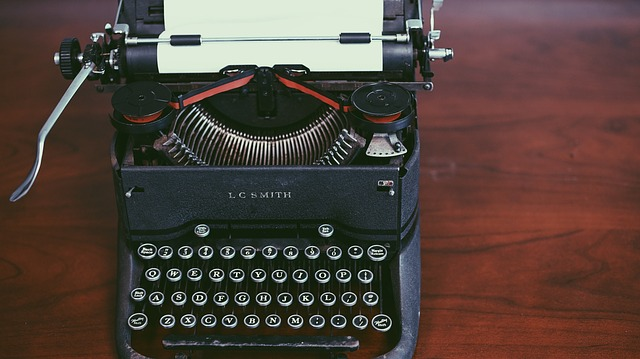
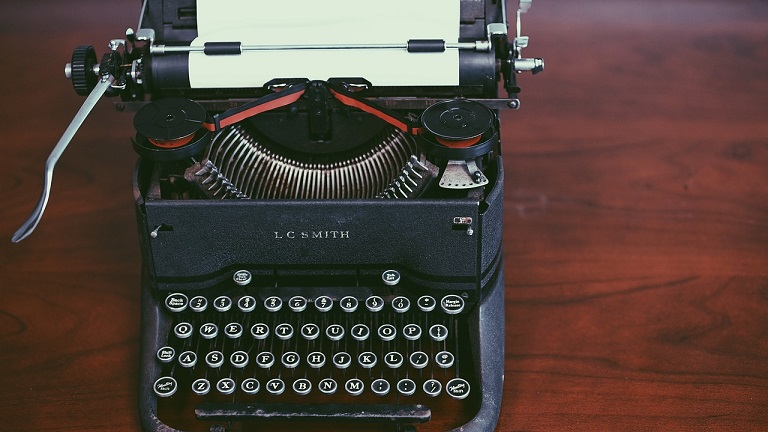
CS300 HW5

diff --git a/docs/Projects/WordProcessorFull.html b/docs/Projects/WordProcessorFull.html
@@ -1,7 +1,7 @@
 <!DOCTYPE html>
 <html>
   <head>
-    <title>Projects</title>
+    <title>WordProcessorFull</title>
     <meta charset="utf-8">
     <meta name="viewport" content="width=device-width, initial-scale=1.0">
 
@@ -907,66 +907,34 @@
   </head>
   <body class="markdown-preview-enhanced   ">
 
-  <h1 id="computer-science-homework-projects-at-psu">Computer Science Homework Projects at PSU</h1>
-<p>David Lu<br>
-4/27/17</p>
-<p><img src="code.jpg" alt="code"></p>
-<h2 id="examples">Examples</h2>
-<p>Here is a curated and lightly edited collection of programming projects that are assigned to computer science students at Portland State University.</p>
-<p>Many PSU CS courses typically post about 5 assignments through the 10 week term. So you can estimate when an assignment was posted by its number. For example a HW3, would likely have been posted about midway through the term.</p>
-<ul>
-<li><p><a href="https://www.pdx.edu/computer-science/cs161"><span style="color:Turquoise">CS161: Introduction to Programming and Problem Solving:</span></a>
-<ul>
-<li><p><a href="Projects.html">(Coming soon)</a></p></li>
-</ul></p></li>
-</ul>
-<ul>
-<li><p><a href="https://www.pdx.edu/computer-science/cs162"><span style="color:Turquoise">CS162 Introduction to Computer Science:</span></a>
-<ul>
-<li><p><a href="Projects/Cipher.html">HW2: Cipher</a></p></li>
-</ul></p></li>
-</ul>
-<ul>
-<li><p><a href="https://www.pdx.edu/computer-science/cs163"><span style="color:Turquoise">CS163 Data Structures:</span></a>
-<ul>
-<li><p><a href="Projects.html">(Coming soon)</a></p></li>
-</ul></p></li>
-</ul>
-<ul>
-<li><p><a href="https://www.pdx.edu/computer-science/cs201"><span style="color:Turquoise">CS201 Computer Systems Programming:</span></a>
-<ul>
-<li><p><a href="Projects/Typing_Speed_Game.html">HW1: Typing Speed Game</a></p></li>
-<li><p><a href="Projects/Decryption.html">HW3: Decryption</a></p></li>
-</ul></p></li>
-</ul>
-<ul>
-<li><p><a href="https://www.pdx.edu/computer-science/cs202"><span style="color:Turquoise">CS202 Programming Systems:</span></a>
-<ul>
-<li><p><a href="Projects.html">(Coming soon)</a></p></li>
-</ul></p></li>
-</ul>
-<ul>
-<li><p><a href="https://www.pdx.edu/computer-science/cs300"><span style="color:Turquoise">CS300 Elements of Software Engineering:</span></a>
-<ul>
-<li><p><a href="Projects/WordProcessor.html">HW1: Word Processor Specification</a></p></li>
-<li><p><a href="Projects/WordProcessorFull.html">HW5: Word Processor Complete Implementation</a></p></li>
-</ul></p></li>
-</ul>
-<ul>
-<li><p><a href="https://www.pdx.edu/computer-science/cs311"><span style="color:Turquoise">CS311 Computational Structures:</span></a>
-<ul>
-<li><p><a href="Projects/DFA_Analyzer.html">HW1: DFA Analyzer</a></p></li>
-<li><p><a href="Projects/Simple_Grammar_Analyzer.html">HW2: Simple Grammar Analyzer</a></p></li>
-</ul></p></li>
-</ul>
-<ul>
-<li><p><a href="https://www.pdx.edu/computer-science/cs333"><span style="color:Turquoise">CS333 Introduction to Operating Systems:</span></a>
-<ul>
-<li><p><a href="Projects.html">(Coming soon)</a></p></li>
-</ul>
-<hr>
-</p><p><sub> Assignments gathered here are curated and lightly edited from publically available PSU course webpages.</sub></p></li>
-</ul>
+  <h1 id="cs300-homework-5-word-processor">CS300: Homework 5 - Word Processor</h1>
+<p><img src="typewriter.jpg" alt="Typewriter"></p>
+<p>From Professor Herb Mayer’s CS300 course. <a href="http://web.cecs.pdx.edu/~herb/cs300s07/">External Link</a></p>
+<h2 id="word-processor-complete-implementation">Word Processor Complete Implementation</h2>
+<p>General Rules: Implement your Homework in C or C++, using any 32-bit or more powerful run-time system. Hand in the complete listing of all source files plus include files, if any, and all inputs with generated outputs. Write your group’s names, the HW number, completion date, and the current PSU term into the header of each source file. If you work in a group of 2 or more, keep in mind that fair work distribution is one important SW Engineering aspect. You need to practice fair work distribution, and group work. This aspect is important in your case, as all group members receive the identical credit for the delivered project.</p>
+<blockquote>
+<p>Abstract: Implement in C or C++ the Word Processor, specified in HW1. Show that all commands work by running the complete test suite specified in HW1. All previously functioning text processing commands must still work correctly.</p>
+</blockquote>
+<p>Detail: The word processor you implement is an old-fashioned, simple text processing tool that reads unformatted ASCII text input with embedded commands, and outputs formatted text. The output has all commands removed, and is formatted as specified by the commands or by defaults. Characters should be monospaced.</p>
+<p>Demonstrate via suitable input texts, that all text processing commands work. The <code>.ra</code> and <code>.co</code> commands had been implemented before and must still function properly. Hand in all inputs and their corresponding outputs, showing in each case that yet another formatting command works as specified.</p>
+<p>Following the emitted output, your word processor dumps additional internal information. This information is for tracking purposes for the implementation team, not meant for the benefit of the user of your word processor. This tracking information includes the following:</p>
+<table>
+<thead>
+<tr><th style="text-align:left">#</th><th style="text-align:left">Internal Data to be Tracked</th></tr>
+</thead>
+<tbody>
+<tr><td style="text-align:left">1</td><td style="text-align:left">Total number of input characters read</td></tr>
+<tr><td style="text-align:left">2</td><td style="text-align:left">Total number of input blanks read</td></tr>
+<tr><td style="text-align:left">3</td><td style="text-align:left">Total number of input cr/lf read</td></tr>
+<tr><td style="text-align:left">4</td><td style="text-align:left">Total number of input tabs read</td></tr>
+<tr><td style="text-align:left">5</td><td style="text-align:left">Total number of input lines read</td></tr>
+<tr><td style="text-align:left">6</td><td style="text-align:left">Total number of unprintable character read</td></tr>
+<tr><td style="text-align:left">7</td><td style="text-align:left">Total number of commands encountered</td></tr>
+<tr><td style="text-align:left">8</td><td style="text-align:left">Total number of distinct commands, i.e. the same command occurring more than once in the input is counted just one time</td></tr>
+<tr><td style="text-align:left">9</td><td style="text-align:left">Total number of words in the input; a word is a contiguous sequence of characters embedded in white space. White space includes blanks, new-lines, the start of file, and of file, and tabs. Also, any combination of these c outs as one white space</td></tr>
+<tr><td style="text-align:left">10</td><td style="text-align:left">Total number of white spaces output. White space is a combinations of blanks, tabs, and newlines, but at least one of those</td></tr>
+</tbody>
+</table>
 
 
   </body>

diff --git a/docs/Projects/WordProcessorFull.md b/docs/Projects/WordProcessorFull.md
@@ -1,0 +1,31 @@
+CS300: Homework 5 - Word Processor
+=============
+
+![Typewriter](typewriter.jpg)
+
+From Professor Herb Mayer's CS300 course. [External Link](http://web.cecs.pdx.edu/~herb/cs300s07/)
+
+Word Processor Complete Implementation
+------------
+General Rules: Implement your Homework in C or C++, using any 32-bit or more powerful run-time system. Hand in the complete listing of all source files plus include files, if any, and all inputs with generated outputs. Write your group’s names, the HW number, completion date, and the current PSU term into the header of each source file. If you work in a group of 2 or more, keep in mind that fair work distribution is one important SW Engineering aspect. You need to practice fair work distribution, and group work. This aspect is important in your case, as all group members receive the identical credit for the delivered project.
+
+>Abstract: Implement in C or C++ the Word Processor, specified in HW1. Show that all commands work by running the complete test suite specified in HW1. All previously functioning text processing commands must still work correctly.
+
+Detail: The word processor you implement is an old-fashioned, simple text processing tool that reads unformatted ASCII text input with embedded commands, and outputs formatted text. The output has all commands removed, and is formatted as specified by the commands or by defaults. Characters should be monospaced.
+
+Demonstrate via suitable input texts, that all text processing commands work. The `.ra` and `.co` commands had been implemented before and must still function properly. Hand in all inputs and their corresponding outputs, showing in each case that yet another formatting command works as specified.
+
+Following the emitted output, your word processor dumps additional internal information. This information is for tracking purposes for the implementation team, not meant for the benefit of the user of your word processor. This tracking information includes the following:
+
+\# | Internal Data to be Tracked
+:--|:--
+1  | Total number of input characters read
+2  | Total number of input blanks read
+3  | Total number of input cr/lf read
+4  | Total number of input tabs read
+5  | Total number of input lines read
+6  | Total number of unprintable character read
+7  | Total number of commands encountered
+8  | Total number of distinct commands, i.e. the same command occurring more than once in the input is counted just one time
+9  | Total number of words in the input; a word is a contiguous sequence of characters embedded in white space. White space includes blanks, new-lines, the start of file, and of file, and tabs. Also, any combination of these c outs as one white space
+10  | Total number of white spaces output. White space is a combinations of blanks, tabs, and newlines, but at least one of those

diff --git a/docs/Projects.md b/docs/Projects.md
@@ -36,6 +36,7 @@ Many PSU CS courses typically post about 5 assignments through the 10 week term.
 
 * [<span style="color:Turquoise">CS300 Elements of Software Engineering:](https://www.pdx.edu/computer-science/cs300)
   * [HW1: Word Processor Specification](Projects/WordProcessor.html)
+  * [HW5: Word Processor Complete Implementation](Projects/WordProcessorFull.html)
 
 
 * [<span style="color:Turquoise">CS311 Computational Structures:](https://www.pdx.edu/computer-science/cs311)
